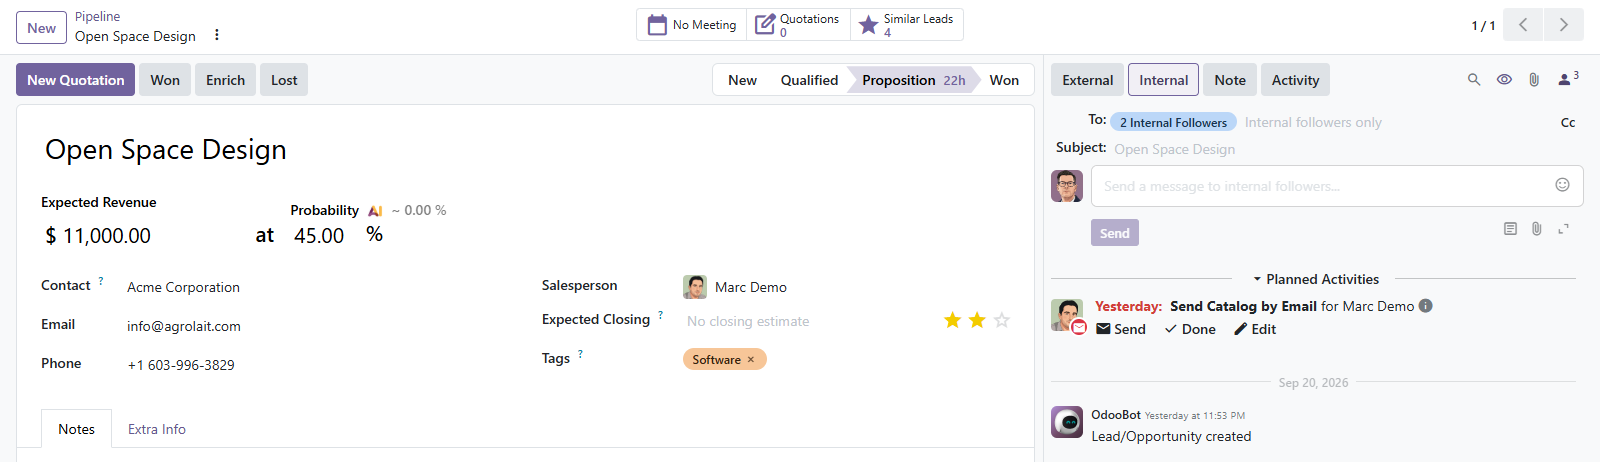
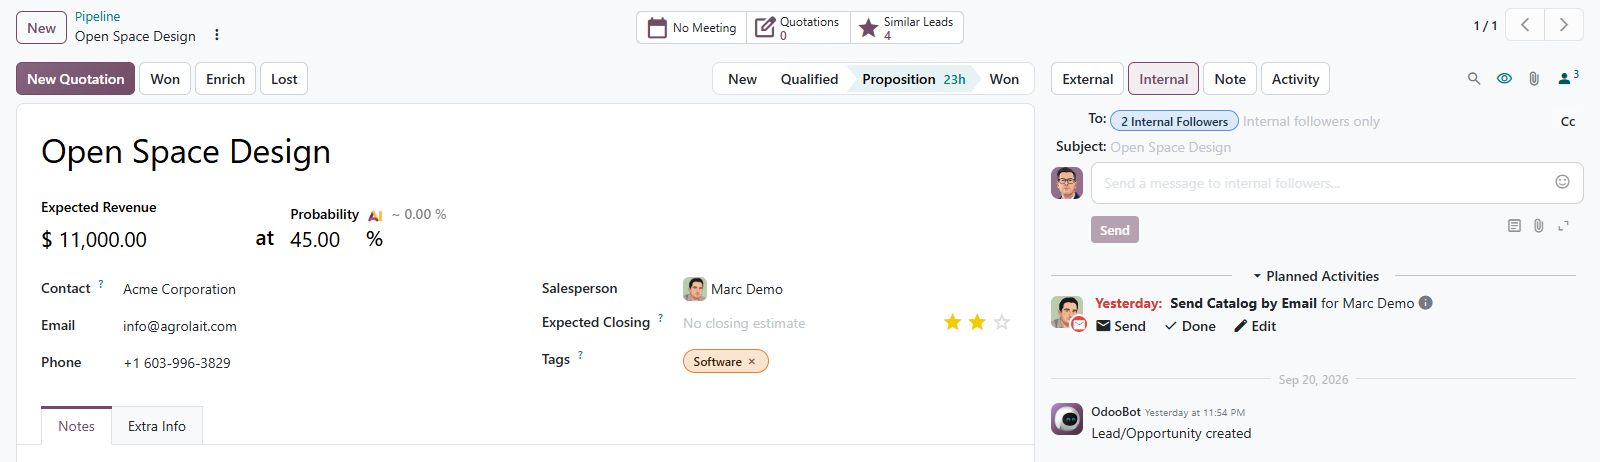
Update muk_web_chatter (5abac8ac)

diff --git a/muk_web_chatter/static/description/index.html b/muk_web_chatter/static/description/index.html
@@ -131,10 +131,10 @@
 			</div>
 			<div class="col-lg-7 col-12">
 				<div style="border: 1px solid #CFCBC3; border-radius: 8px; background-color: #FFFFFF;">
-					<div style="background-color: #F2F0EC; border-bottom: 1px solid #E3E0DA; border-radius: 7px 7px 0 0; padding: 10px 16px; font-family: ui-monospace, SFMono-Regular, Menlo, Consolas, monospace; font-size: 12px; color: #5C666F;">Preferences &nbsp;&rsaquo;&nbsp; Chatter Position &nbsp;&rsaquo;&nbsp; Bottom</div>
-					<img src="screenshot_bottom.png" alt="The same opportunity with the chatter under the form" style="display: block; width: 100%; height: auto; max-width: none; border-radius: 0 0 7px 7px;">
+					<div style="background-color: #F2F0EC; border-bottom: 1px solid #E3E0DA; border-radius: 7px 7px 0 0; padding: 10px 16px; font-family: ui-monospace, SFMono-Regular, Menlo, Consolas, monospace; font-size: 12px; color: #5C666F;">Invoicing &nbsp;&rsaquo;&nbsp; Customers &nbsp;&rsaquo;&nbsp; Invoices</div>
+					<img src="screenshot_bottom.png" alt="An invoice with the chatter under the record" style="display: block; width: 100%; height: auto; max-width: none; border-radius: 0 0 7px 7px;">
 				</div>
-				<div style="padding-top: 12px; font-size: 13px; line-height: 1.5; color: #5C666F;">The same record, the same screen, the preference set to Bottom.</div>
+				<div style="padding-top: 12px; font-size: 13px; line-height: 1.5; color: #5C666F;">With the preference set to Bottom the record takes the full width and the chatter sits beneath it.</div>
 			</div>
 		</div>
 	</div>

diff --git a/muk_web_chatter/__manifest__.py b/muk_web_chatter/__manifest__.py
@@ -5,7 +5,7 @@
         This module improves the design of the chatter and adds a user
         preference to set the position of the chatter in the form view.
     """,
-    'version': '20.0.1.5.0',
+    'version': '20.0.1.5.2',
     'category': 'Tools/UI',
     'license': 'LGPL-3',
     'author': 'MuK IT',
@@ -29,9 +29,46 @@
             ),
         ],
         'web.assets_backend': [
-            'muk_web_chatter/static/src/chatter/**/*',
-            'muk_web_chatter/static/src/core/**/*',
-            'muk_web_chatter/static/src/views/**/*',
+            'muk_web_chatter/static/src/chatter/web/chatter.scss',
+            'muk_web_chatter/static/src/chatter/web/chatter.xml',
+            'muk_web_chatter/static/src/chatter/web/composer.xml',
+            'muk_web_chatter/static/src/core/web/recipients_input.xml',
+            'muk_web_chatter/static/src/views/form/form_renderer.scss',
+            (
+                'after',
+                'mail/static/src/chatter/web/chatter_patch.js',
+                'muk_web_chatter/static/src/chatter/web/chatter.js',
+            ),
+            (
+                'after',
+                'mail/static/src/chatter/web/composer_patch.js',
+                'muk_web_chatter/static/src/chatter/web/composer.js',
+            ),
+            (
+                'after',
+                'mail/static/src/core/common/store_service.js',
+                'muk_web_chatter/static/src/core/common/store_service.js',
+            ),
+            (
+                'after',
+                'mail/static/src/core/common/thread.js',
+                'muk_web_chatter/static/src/core/common/thread.js',
+            ),
+            (
+                'after',
+                'mail/static/src/core/web/recipients_input.js',
+                'muk_web_chatter/static/src/core/web/recipients_input.js',
+            ),
+            (
+                'after',
+                'mail/static/src/chatter/web/form_compiler.js',
+                'muk_web_chatter/static/src/views/form/form_compiler.js',
+            ),
+            (
+                'after',
+                'mail/static/src/chatter/web/form_renderer.js',
+                'muk_web_chatter/static/src/views/form/form_renderer.js',
+            ),
         ],
         'web.assets_unit_tests': [
             'muk_web_chatter/static/tests/**/*.test.js',
